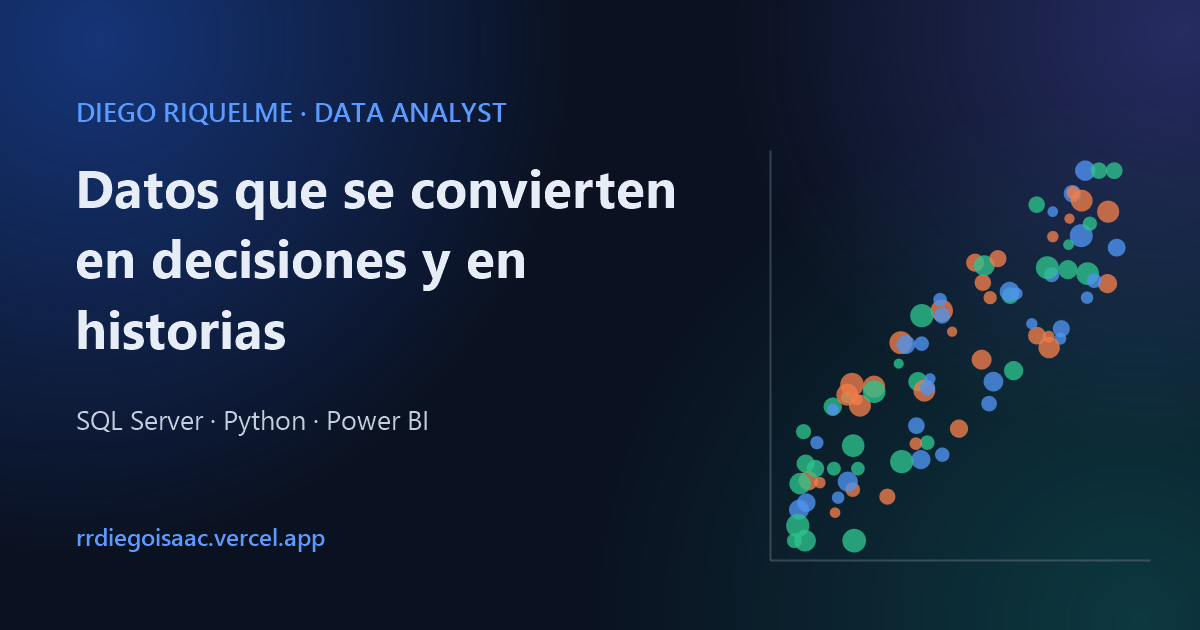
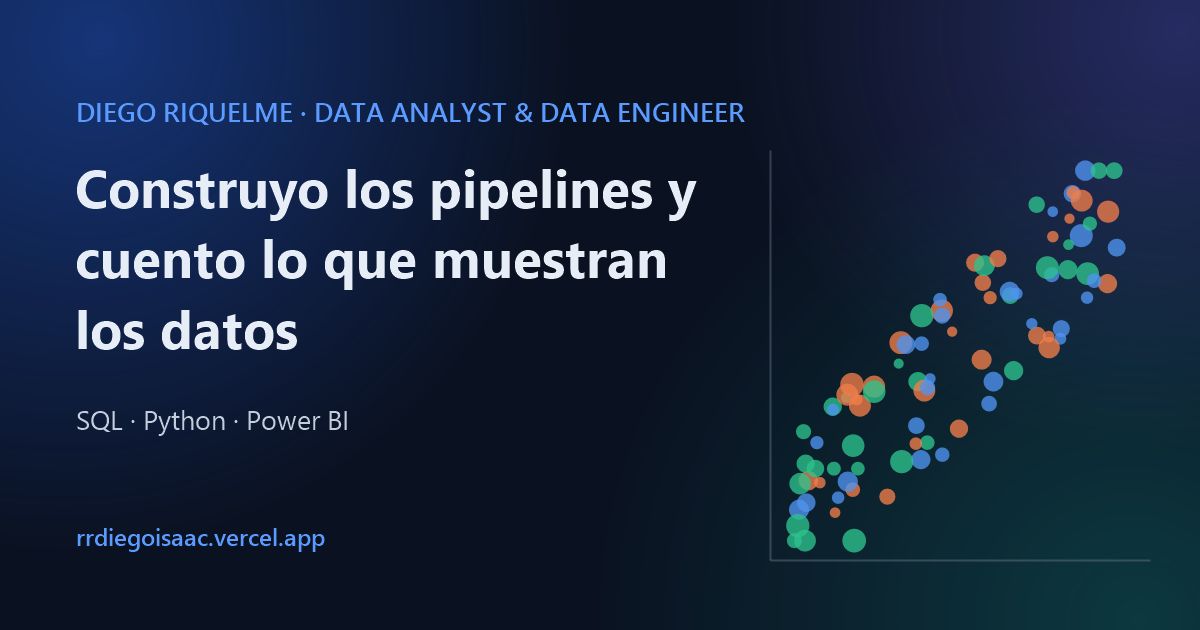
feat(portada): título Data Analyst & Data Engineer y nueva frase principal
Actualiza la portada, el título de la pestaña, las etiquetas y la imagen de la vista previa.

diff --git a/index.html b/index.html
@@ -4,20 +4,20 @@
     <meta charset="UTF-8" />
     <link rel="icon" type="image/svg+xml" href="/favicon.svg" />
     <meta name="viewport" content="width=device-width, initial-scale=1.0" />
-    <title>Diego Riquelme · Data Analyst</title>
-    <meta name="description" content="Portafolio de Diego Riquelme, Data Analyst: SQL Server, Python y Power BI. Notas interactivas con análisis de datos públicos de Chile." />
+    <title>Diego Riquelme · Data Analyst &amp; Data Engineer</title>
+    <meta name="description" content="Portafolio de Diego Riquelme, Data Analyst &amp; Data Engineer: SQL, Python y Power BI. Notas interactivas con análisis de datos públicos de Chile." />
 
     <!-- Vista previa al compartir el enlace (LinkedIn, WhatsApp, etc.) -->
     <meta property="og:type" content="website" />
     <meta property="og:locale" content="es_CL" />
-    <meta property="og:site_name" content="Diego Riquelme · Data Analyst" />
-    <meta property="og:title" content="Diego Riquelme · Data Analyst" />
-    <meta property="og:description" content="SQL Server, Python y Power BI. Notas interactivas con análisis de datos públicos de Chile." />
+    <meta property="og:site_name" content="Diego Riquelme · Data Analyst &amp; Data Engineer" />
+    <meta property="og:title" content="Diego Riquelme · Data Analyst &amp; Data Engineer" />
+    <meta property="og:description" content="SQL, Python y Power BI. Notas interactivas con análisis de datos públicos de Chile." />
     <meta property="og:url" content="https://rrdiegoisaac.vercel.app/" />
     <meta property="og:image" content="https://rrdiegoisaac.vercel.app/og.png" />
     <meta property="og:image:width" content="1200" />
     <meta property="og:image:height" content="630" />
-    <meta property="og:image:alt" content="Diego Riquelme · Data Analyst. Datos que se convierten en decisiones y en historias." />
+    <meta property="og:image:alt" content="Diego Riquelme · Data Analyst &amp; Data Engineer. Construyo los pipelines y cuento lo que muestran los datos." />
     <meta name="twitter:card" content="summary_large_image" />
   </head>
   <body>

diff --git a/src/components/Hero.jsx b/src/components/Hero.jsx
@@ -44,8 +44,8 @@ function Hero({ tema }) {
 
       <div className="hero__cuerpo">
         <div className="hero__texto">
-          <p className="hero__kicker">Diego Riquelme · Data Analyst</p>
-          <h1 className="hero__title">Datos que se convierten en decisiones y en historias</h1>
+          <p className="hero__kicker">Diego Riquelme · Data Analyst &amp; Data Engineer</p>
+          <h1 className="hero__title">Construyo los pipelines y cuento lo que muestran los datos</h1>
           <p className="hero__description">
             Automatizo procesos con SQL y Python, construyo dashboards en Power BI
             y, en mis proyectos, sigo los datos desde la fuente hasta las

diff --git a/src/components/useTitulo.js b/src/components/useTitulo.js
@@ -1,6 +1,6 @@
 import { useEffect } from 'react'
 
-const SITIO = 'Diego Riquelme · Data Analyst'
+const SITIO = 'Diego Riquelme · Data Analyst & Data Engineer'
 
 // Título de la pestaña del navegador. Sin argumento, usa el del sitio.
 function useTitulo(titulo) {
